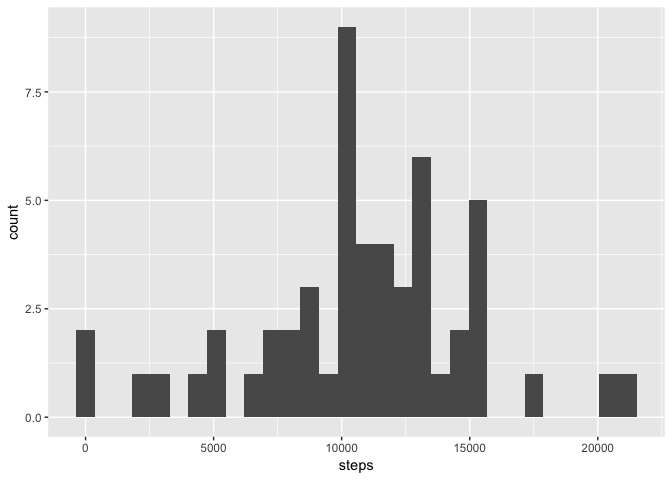
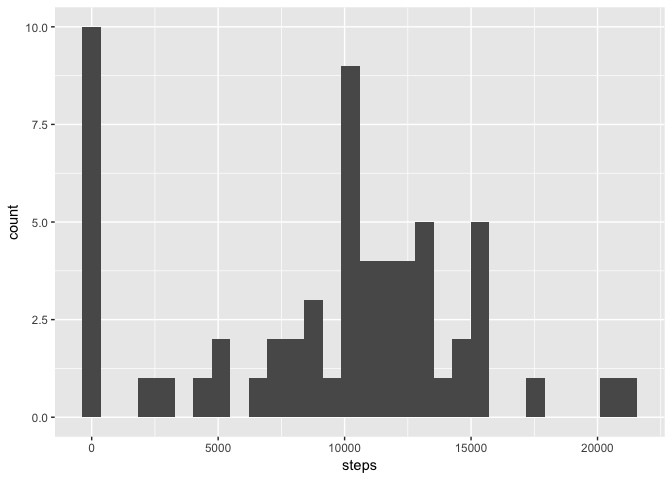
8th re-knitr

diff --git a/PA1_template.html b/PA1_template.html
@@ -142,24 +142,24 @@ df$date &lt;- as.Date(df$date, &quot;%Y-%m-%d&quot;)
 <div id="what-is-mean-total-number-of-steps-taken-per-day" class="section level2">
 <h2>What is mean total number of steps taken per day?</h2>
 <pre class="r"><code>## Tibble with average steps per day
-task1_df &lt;- df %&gt;% group_by(date) %&gt;% summarise_at(vars(&quot;steps&quot;), sum)
+task1_df &lt;- df %&gt;% group_by(date) %&gt;% summarise_at(vars(&quot;steps&quot;), sum, na.rm=TRUE)
 ###</code></pre>
 <div id="histogram-of-the-total-number-of-steps-taken-each-day" class="section level3">
 <h3>Histogram of the total number of steps taken each day</h3>
 <pre class="r"><code>ggplot(task1_df, aes(x=steps)) + geom_histogram()</code></pre>
[2 lines of base64/hex data omitted]
 </div>
 <div id="mean-and-median-number-of-steps-taken-each-day" class="section level3">
 <h3>Mean and median number of steps taken each day</h3>
 <div id="mean" class="section level4">
 <h4>Mean</h4>
 <pre class="r"><code>round(mean(task1_df$steps, na.rm = TRUE), 1)</code></pre>
-<pre><code>## [1] 10766.2</code></pre>
+<pre><code>## [1] 9354.2</code></pre>
 </div>
 <div id="median" class="section level4">
 <h4>Median</h4>
 <pre class="r"><code>round(median(task1_df$steps, na.rm = TRUE), 1)</code></pre>
-<pre><code>## [1] 10765</code></pre>
+<pre><code>## [1] 10395</code></pre>
 </div>
 </div>
 </div>
@@ -242,7 +242,7 @@ task3_df &lt;- df_filled %&gt;% group_by(date) %&gt;% summarise_at(vars(&quot;st
 <h4>Median</h4>
 <pre class="r"><code>round(median(task3_df$steps, na.rm = TRUE), 1)</code></pre>
 <pre><code>## [1] 10766.2</code></pre>
-<p>These values do NOT differ from the estimates calculated before data imputation. The impact of imputing missing data on the estimates of the total daily number of steps seems to be negligible.</p>
+<p>These values DO differ from the estimates calculated before data imputation. The impact of imputing missing data on the estimates of the total daily number of steps is that: 1. it made the mean from imputed data to be greater than the mean with missing data; 2. after data imputation, both the mean and median are identical.</p>
 </div>
 </div>
 </div>

diff --git a/PA1_template.md b/PA1_template.md
@@ -30,7 +30,7 @@ df$date <- as.Date(df$date, "%Y-%m-%d")
 
 ```r
 ## Tibble with average steps per day
-task1_df <- df %>% group_by(date) %>% summarise_at(vars("steps"), sum)
+task1_df <- df %>% group_by(date) %>% summarise_at(vars("steps"), sum, na.rm=TRUE)
 ###
 ```
 ### Histogram of the total number of steps taken each day
@@ -49,7 +49,7 @@ round(mean(task1_df$steps, na.rm = TRUE), 1)
 ```
 
 ```
-## [1] 10766.2
+## [1] 9354.2
 ```
 
 
@@ -60,7 +60,7 @@ round(median(task1_df$steps, na.rm = TRUE), 1)
 ```
 
 ```
-## [1] 10765
+## [1] 10395
 ```
 
 
@@ -178,7 +178,7 @@ round(median(task3_df$steps, na.rm = TRUE), 1)
 ```
 
 
-These values do NOT differ from the estimates calculated before data imputation. The impact of imputing missing data on the estimates of the total daily number of steps seems to be negligible.
+These values DO differ from the estimates calculated before data imputation. The impact of imputing missing data on the estimates of the total daily number of steps is that: 1. it made the mean from imputed data to be greater than the mean with missing data; 2. after data imputation, both the mean and median are identical.
 
 
 ## Are there differences in activity patterns between weekdays and weekends?
